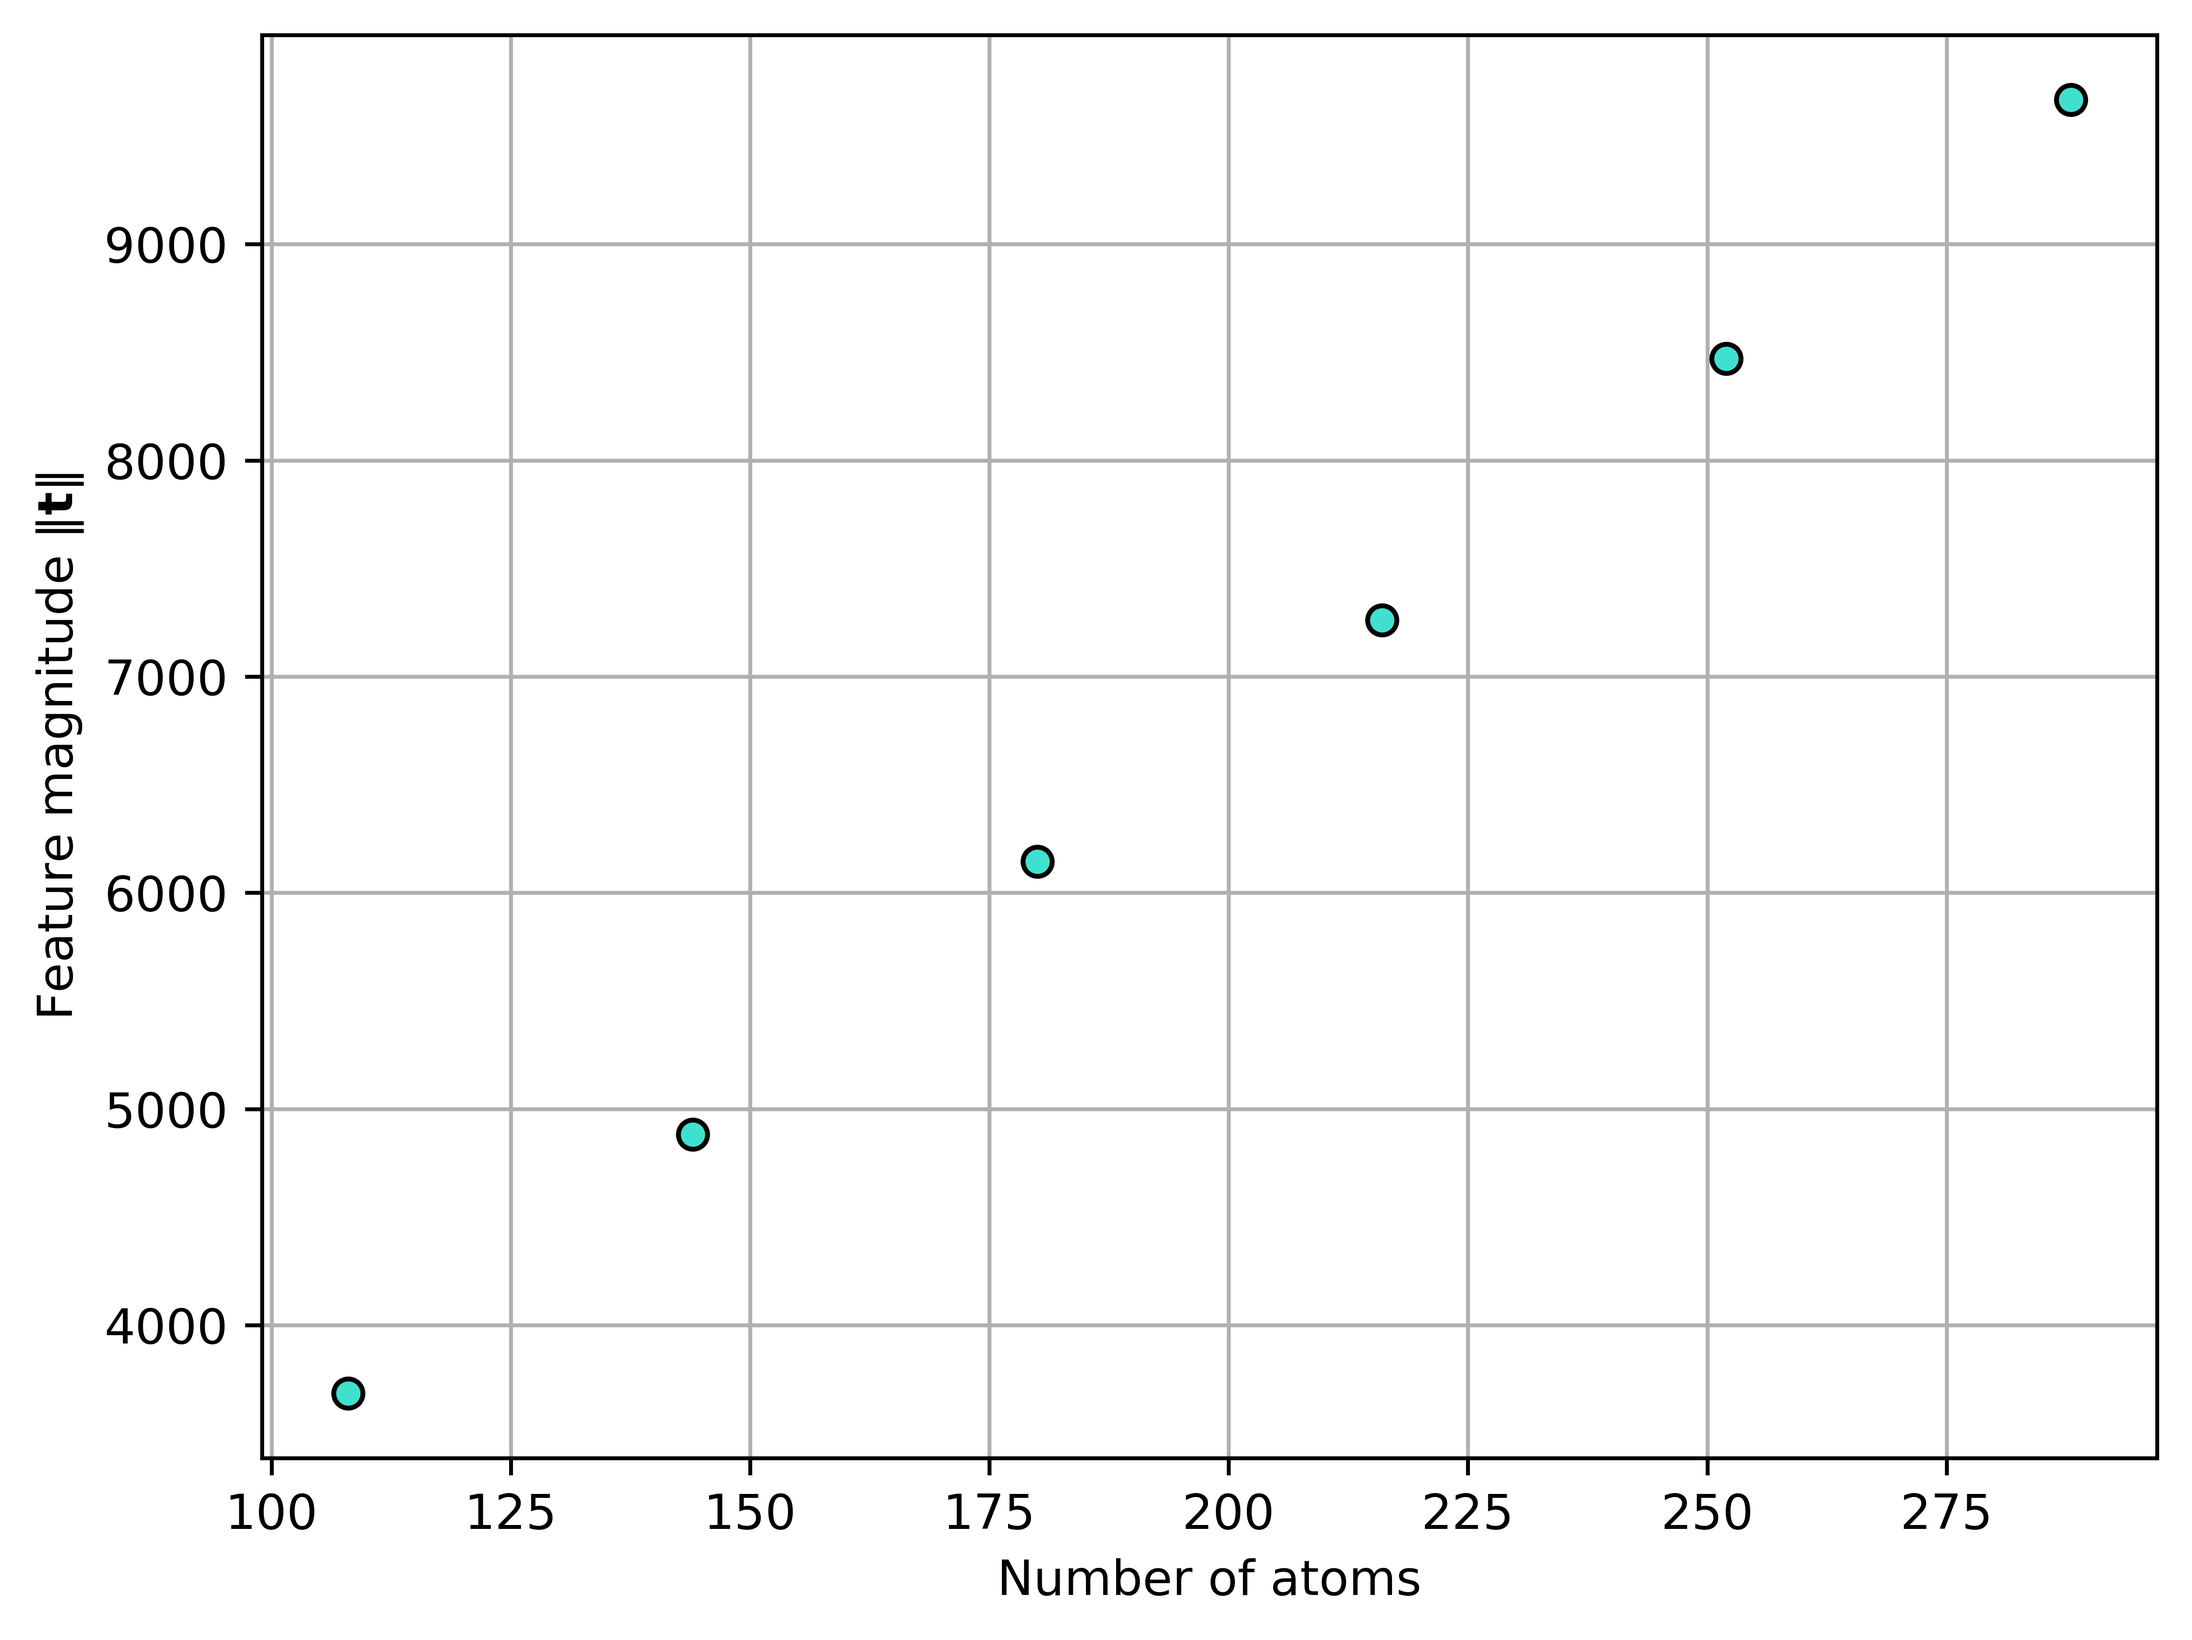
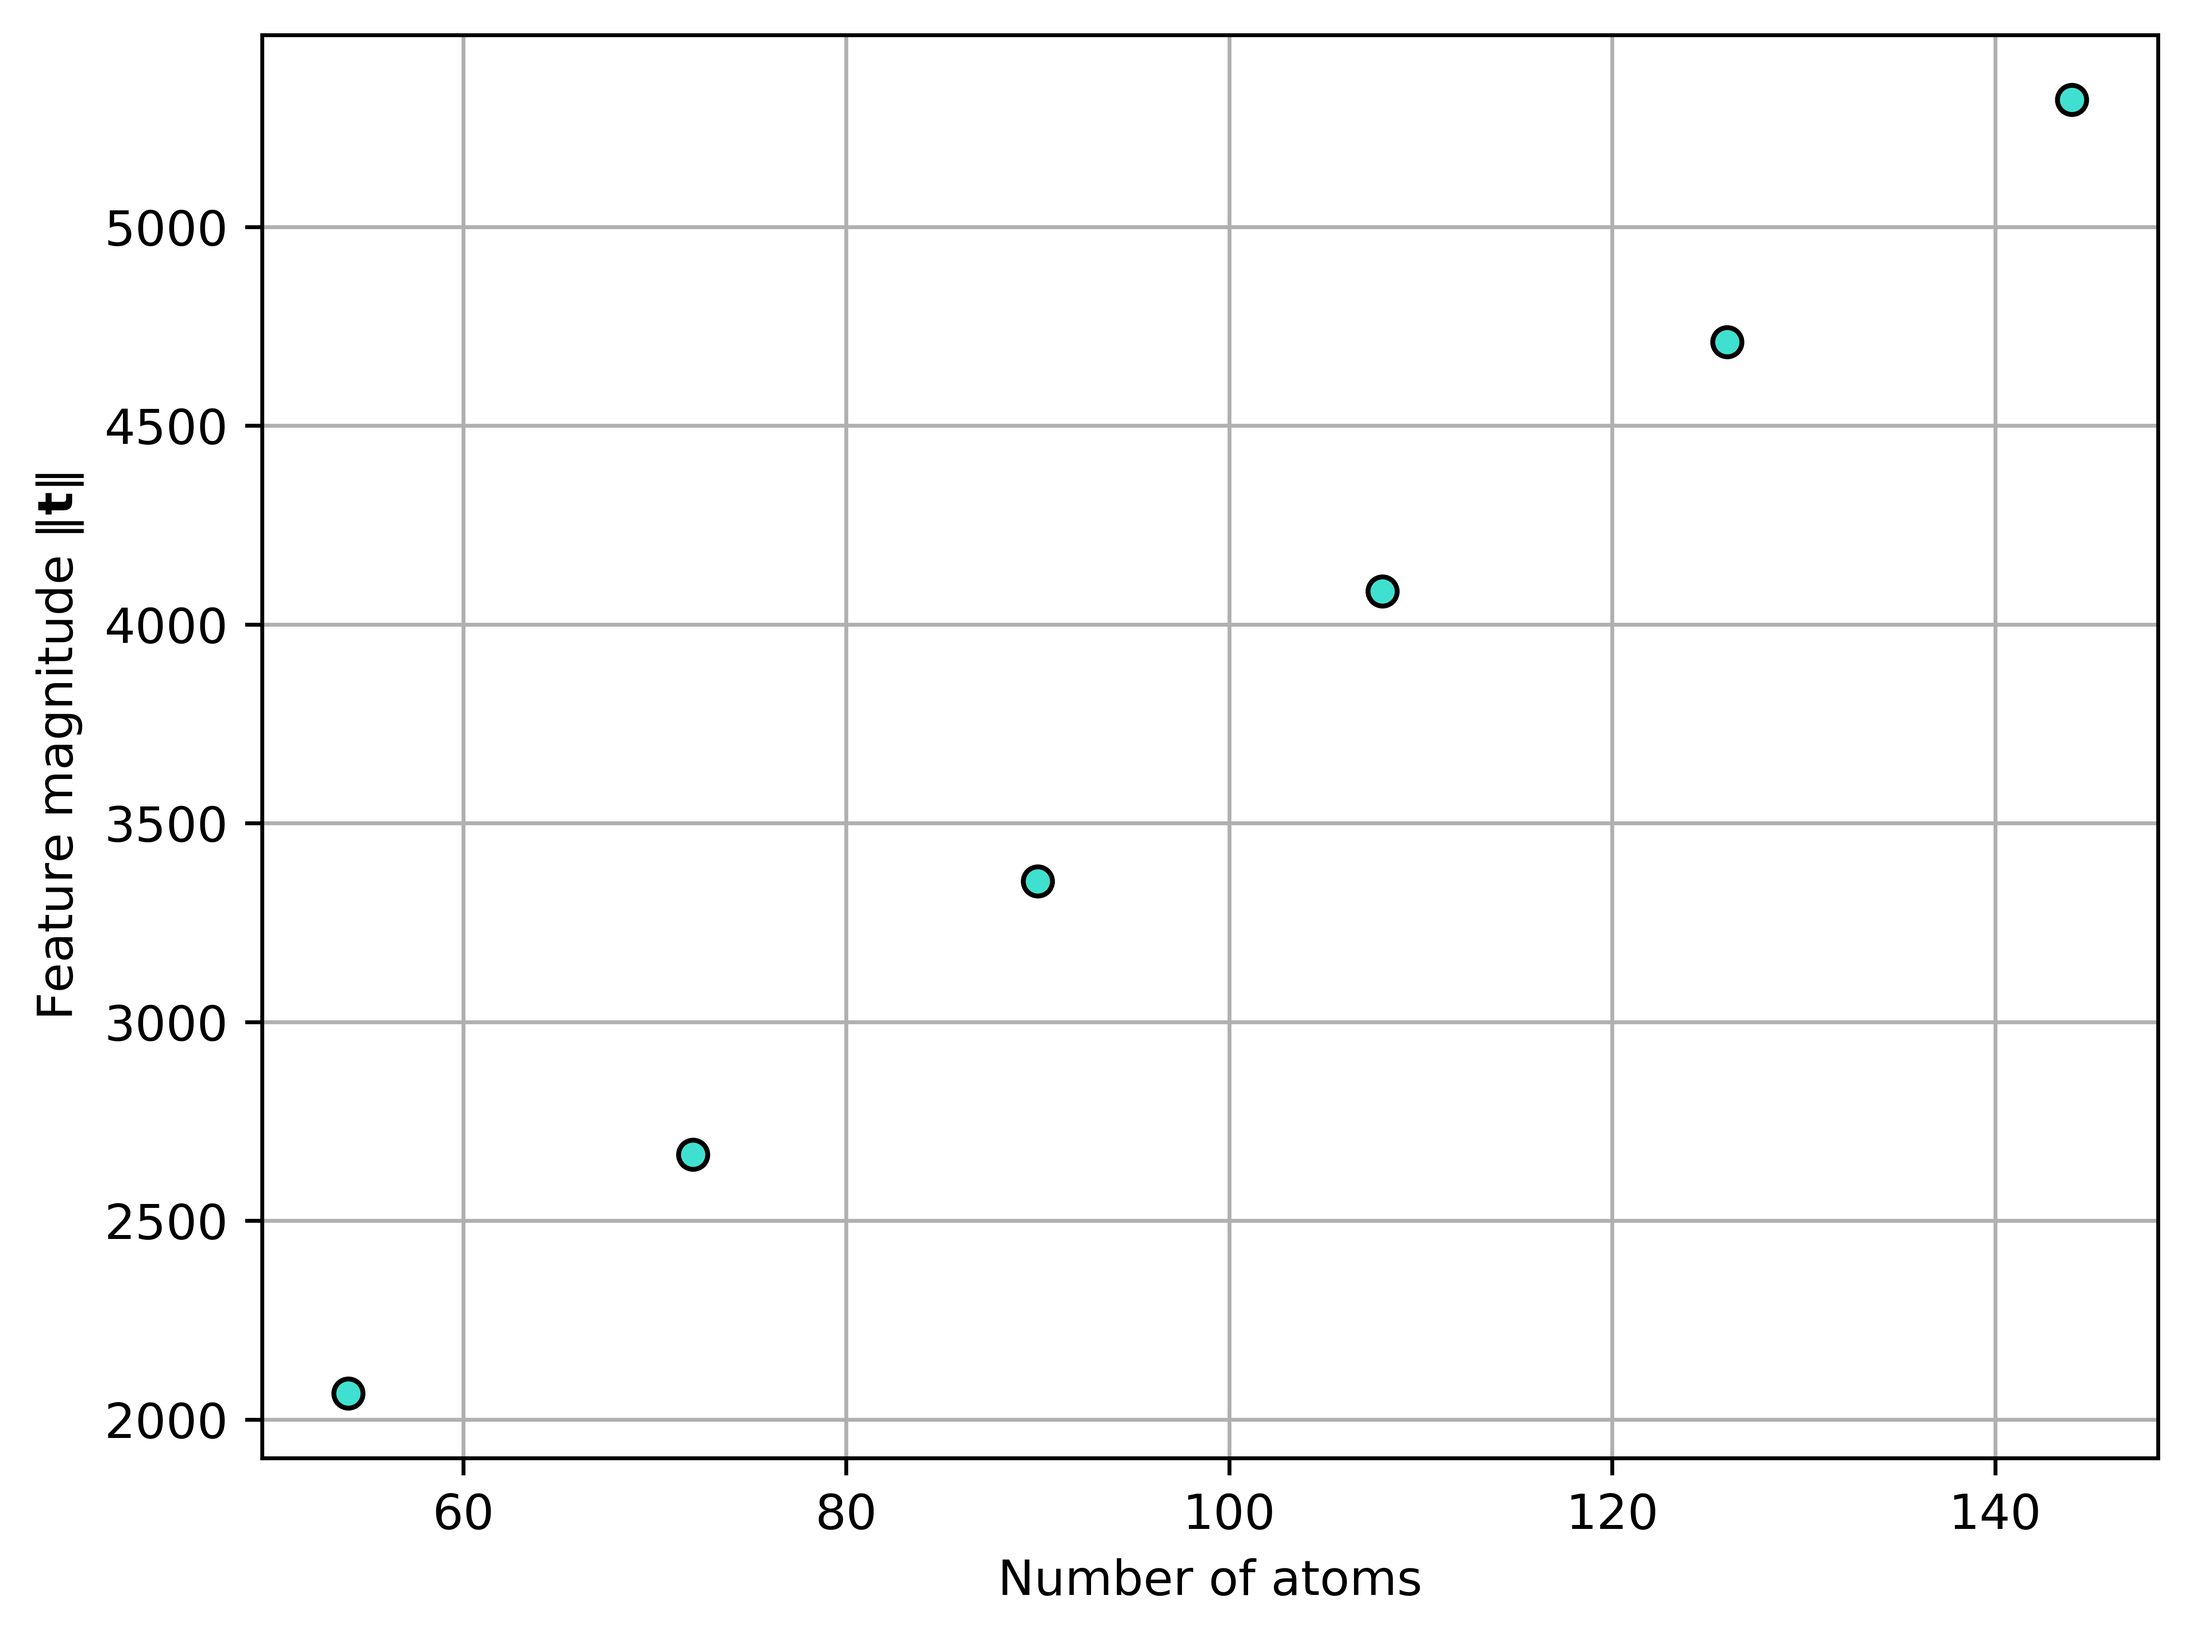
removed supercell instances in examples

diff --git a/examples/size-dependence.py b/examples/size-dependence.py
@@ -1,7 +1,10 @@
 import numpy as np
 import matplotlib.pyplot as plt
+from ase import build
+from scipy.spatial import KDTree
 
-import tce
+from tce.constants import STRUCTURE_TO_CUTOFF_LISTS, LatticeStructure
+from tce.topology import get_adjacency_tensors, get_three_body_tensors, get_feature_vector
 
 
 def main():
@@ -10,26 +13,46 @@ def main():
     feature_sizes = np.zeros_like(vertical_lengths)
     rng = np.random.default_rng(seed=0)
 
+    lattice_structure = LatticeStructure.BCC
+    lattice_parameter = 3.5
+
     for i, length in enumerate(vertical_lengths):
         # construct the supercell
-        supercell = tce.structures.Supercell(
-            lattice_structure=tce.constants.LatticeStructure.FCC,
-            lattice_parameter=3.5,
-            size=(3, 3, length)
-        )
-        num_atoms[i] = supercell.num_sites
+        supercell = build.bulk(
+            "Cu",
+            crystalstructure=lattice_structure.name.lower(),
+            a=lattice_parameter,
+            cubic=True
+        ).repeat((3, 3, length))
+        num_atoms[i] = len(supercell)
+        supercell.symbols = rng.choice(["Cu", "Pd"], p=[0.5, 0.5], size=len(supercell))
 
-        types = rng.choice([0, 1], p=[0.5, 0.5], size=supercell.num_sites)
-        state_matrix = np.zeros((supercell.num_sites, 2))
-        for site, t in enumerate(types):
-            state_matrix[site, t] = 1.0
+        state_matrix = np.zeros((len(supercell), 2))
+        for site, t in enumerate(supercell.symbols):
+            if t == "Cu":
+                j = 0
+            elif t == "Pd":
+                j = 1
+            else:
+                raise ValueError
+            state_matrix[site, j] = 1.0
 
         # compute the feature vector for that state matrix
-        feature_vector = supercell.feature_vector(
-            state_matrix,
-            max_adjacency_order=3,
-            max_triplet_order=2
+        adjacency_tensors = get_adjacency_tensors(
+            tree=KDTree(data=supercell.positions, boxsize=np.diag(supercell.get_cell()[:])),
+            cutoffs=lattice_parameter * STRUCTURE_TO_CUTOFF_LISTS[lattice_structure][:3]
         )
+        three_body_tensors = get_three_body_tensors(
+            lattice_structure=lattice_structure,
+            adjacency_tensors=adjacency_tensors,
+            max_three_body_order=2
+        )
+        feature_vector = get_feature_vector(
+            adjacency_tensors=adjacency_tensors,
+            three_body_tensors=three_body_tensors,
+            state_matrix=state_matrix,
+        )
+        print(feature_vector, np.linalg.norm(feature_vector))
         feature_sizes[i] = np.linalg.norm(feature_vector)
 
     plt.scatter(num_atoms, feature_sizes, edgecolor="black", facecolor="turquoise", zorder=7)

diff --git a/examples/4-tensorial-property.py b/examples/4-tensorial-property.py
@@ -5,7 +5,6 @@ from numpy.typing import NDArray
 
 from tce.constants import LatticeStructure, ClusterBasis
 from tce.training import train, get_type_map
-from tce.structures import Supercell
 from tce.topology import topological_feature_vector_factory
 
 
